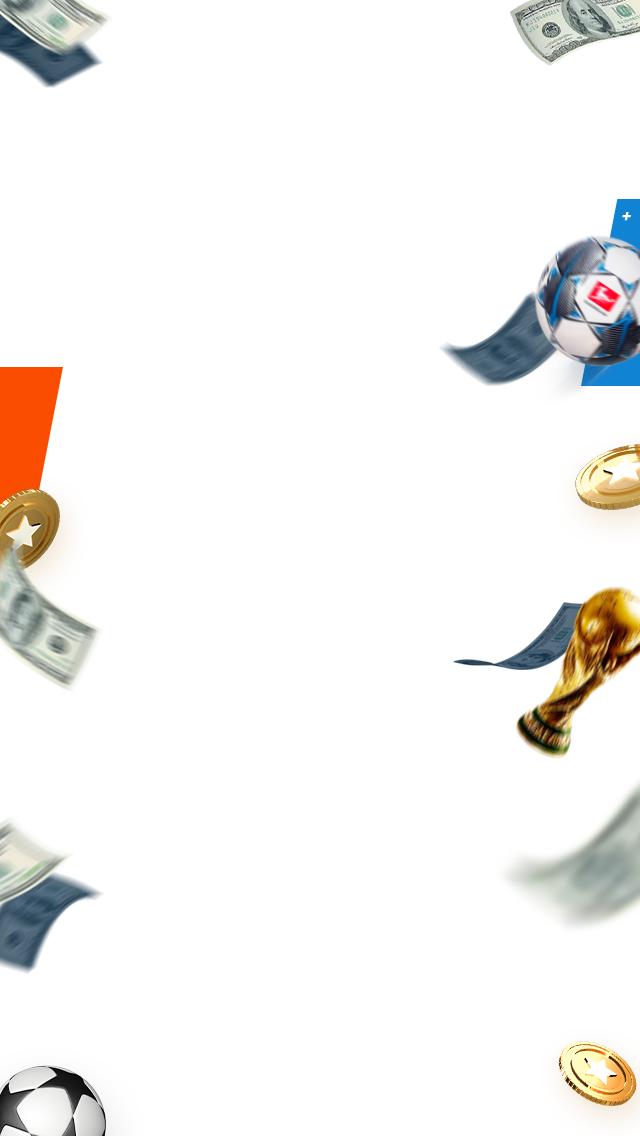
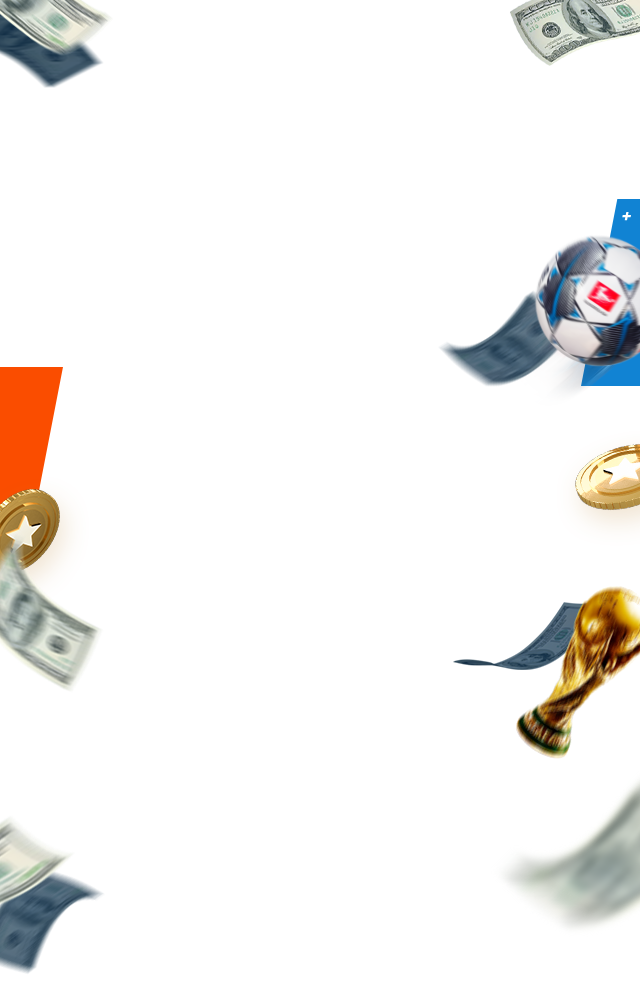
commit fixed 3

diff --git a/style/style.scss b/style/style.scss
@@ -289,6 +289,14 @@ body {
                     transform: translateY(-50%);
                 }
             }
+            &::before{
+                content: url("../img/ball.png");
+                    position: absolute;
+                    left: -135px;
+                    top: -50%;
+                    transform: translateY(-50%);
+                    transform:   skew(15deg);
+            }
         }
         .form-registration {
             max-width: 341px;

diff --git a/style/style.css b/style/style.css
@@ -372,6 +372,17 @@ body::-webkit-scrollbar-thumb {
           transform: translateY(-50%);
 }
 
+.sec2 .wrapper .league-logo::before {
+  content: url("../img/ball.png");
+  position: absolute;
+  left: -135px;
+  top: -50%;
+  -webkit-transform: translateY(-50%);
+          transform: translateY(-50%);
+  -webkit-transform: skew(15deg);
+          transform: skew(15deg);
+}
+
 .sec2 .wrapper .form-registration {
   max-width: 341px;
   position: absolute;

diff --git a/style/media.scss b/style/media.scss
@@ -95,6 +95,11 @@
    .sec2{
        display: block;
    }
+   .sec2 .coins{
+    background-image: url('../img/mb_elem.png');
+    background-size: 100% auto;
+    background-position:top;
+}
    .sec2 .wrapper .form-registration{
        position: relative;
        right: 0;

diff --git a/style/media.css b/style/media.css
@@ -105,6 +105,11 @@
   .sec2 {
     display: block;
   }
+  .sec2 .coins {
+    background-image: url("../img/mb_elem.png");
+    background-size: 100% auto;
+    background-position: top;
+  }
   .sec2 .wrapper .form-registration {
     position: relative;
     right: 0;
